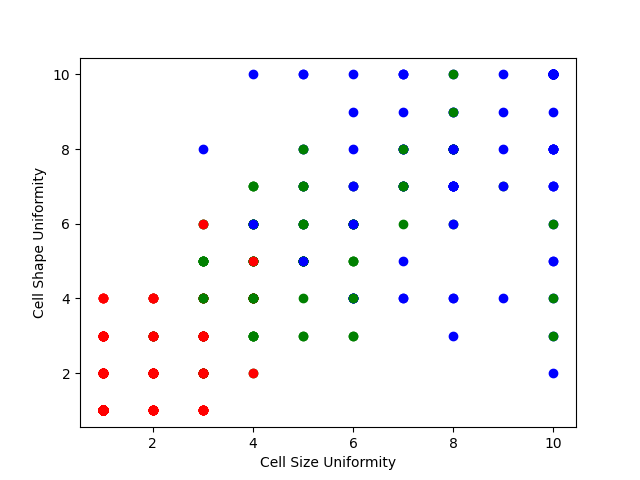
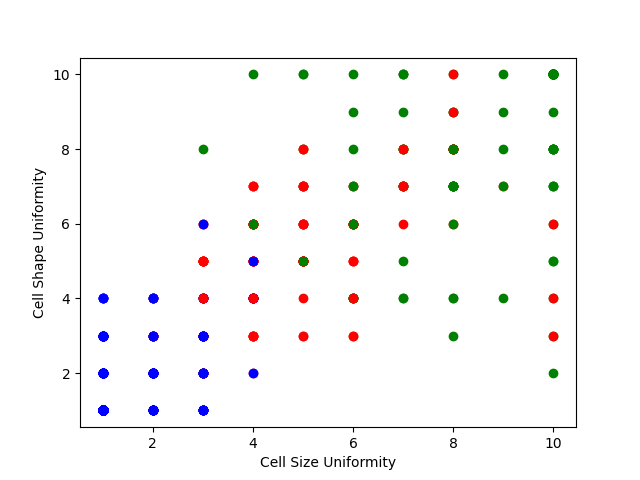
Last code version

diff --git a/Homework/HW4/HW4.2.py b/Homework/HW4/HW4.2.py
@@ -1,26 +1,22 @@
-from sklearn.cluster import KMeans
-import matplotlib.pyplot as plt
-from sklearn.feature_selection import mutual_info_classif, SelectKBest
-from sklearn.metrics import silhouette_score
 import numpy as np
 import pandas as pd
 from scipy.io import arff
+import matplotlib.pyplot as plt
+from sklearn.cluster import KMeans
+from sklearn.metrics import silhouette_score
+from sklearn.feature_selection import mutual_info_classif, SelectKBest
 
 def loadDataFrame(file_name):
-    #read data from given file
     data = arff.loadarff(file_name)
     df = pd.DataFrame(data[0])
     df['Class'] = df['Class'].str.decode('utf-8')
     return df.values.tolist()
 
-
 def splitFeatureLabel(df):
-    # Create feature and label lists
     df_features = [x[:-1] for x in df]
     df_labels = [x[-1] for x in df]
 
     return df_features, df_labels
-
 
 def findClustersAndECR(k, kmeans_labels, df_labels):
     clusters = []
@@ -29,7 +25,6 @@ def findClustersAndECR(k, kmeans_labels, df_labels):
         clusters.append([])
     for i in range(len(kmeans_labels)):
         clusters[kmeans_labels[i]].append(df_labels[i])
-    print(clusters)
     for i in range(k):
         _, freq = np.unique(clusters[i], return_counts = True)
         max_freq = np.amax(freq)
@@ -45,45 +40,32 @@ def computeKMeansAndSilhouette(df_features, df_labels):
     k = [2,3]
     for ki in k:
         kmeans_labels = computeKMeans(df_features,ki)
-        #print(kmeans_labels)
         print(findClustersAndECR(ki, kmeans_labels, df_labels))
         print(silhouette_score(df_features, labels=kmeans_labels))
-
 
 def getHigherMutualInfoClusters(df_features, df_labels):
 
     def plotGraph(labels, colors, file_name):
-        # Zip observation with label
-        # 1,1 -> (1,1),(1)
         result = zip(new_features,labels)
-
-        # Plot each point with corresponding color
         for value in result:
             plt.scatter(x=value[0][0], y=value[0][1], color=colors[int(value[1])])
         
-        # Hard-Coded top-2 features (very shitty tbf)
         plt.xlabel("Cell Size Uniformity")
         plt.ylabel("Cell Shape Uniformity")
         plt.savefig(file_name)
         plt.show()
 
-    # Compute KMeans (Before selecting features)
     kmeans_labels = computeKMeans(df_features,3)
 
-    # Select top-2 features
     sel_cols = SelectKBest(mutual_info_classif, k = 2)
     sel_cols.fit(df_features,df_labels)
 
-    # Create new features array with only top-2 features
-    # 5,1,1,1,2,1,3,1,1 -> 1,1
     indexes = [int(col[1]) for col in sel_cols.get_feature_names_out()]
     new_features = ([[x[i] for i in indexes] for x in df_features])
 
-    # Plot clusters
-    plotGraph(kmeans_labels,["red","blue","green"],"MEGACLUSTER360NOSCOPEOMG.png")
+    plotGraph(kmeans_labels,["red","blue","green"],"classified.png")
     plt.clf()
-    plotGraph([1 if label=="benign" else 0 for label in df_labels],["red","blue"],"notsomega.png")
-    
+    plotGraph([1 if label=="benign" else 0 for label in df_labels],["red","blue"],"original.png")
 
 if __name__ == "__main__":
     df = loadDataFrame("breast.w.arff")
